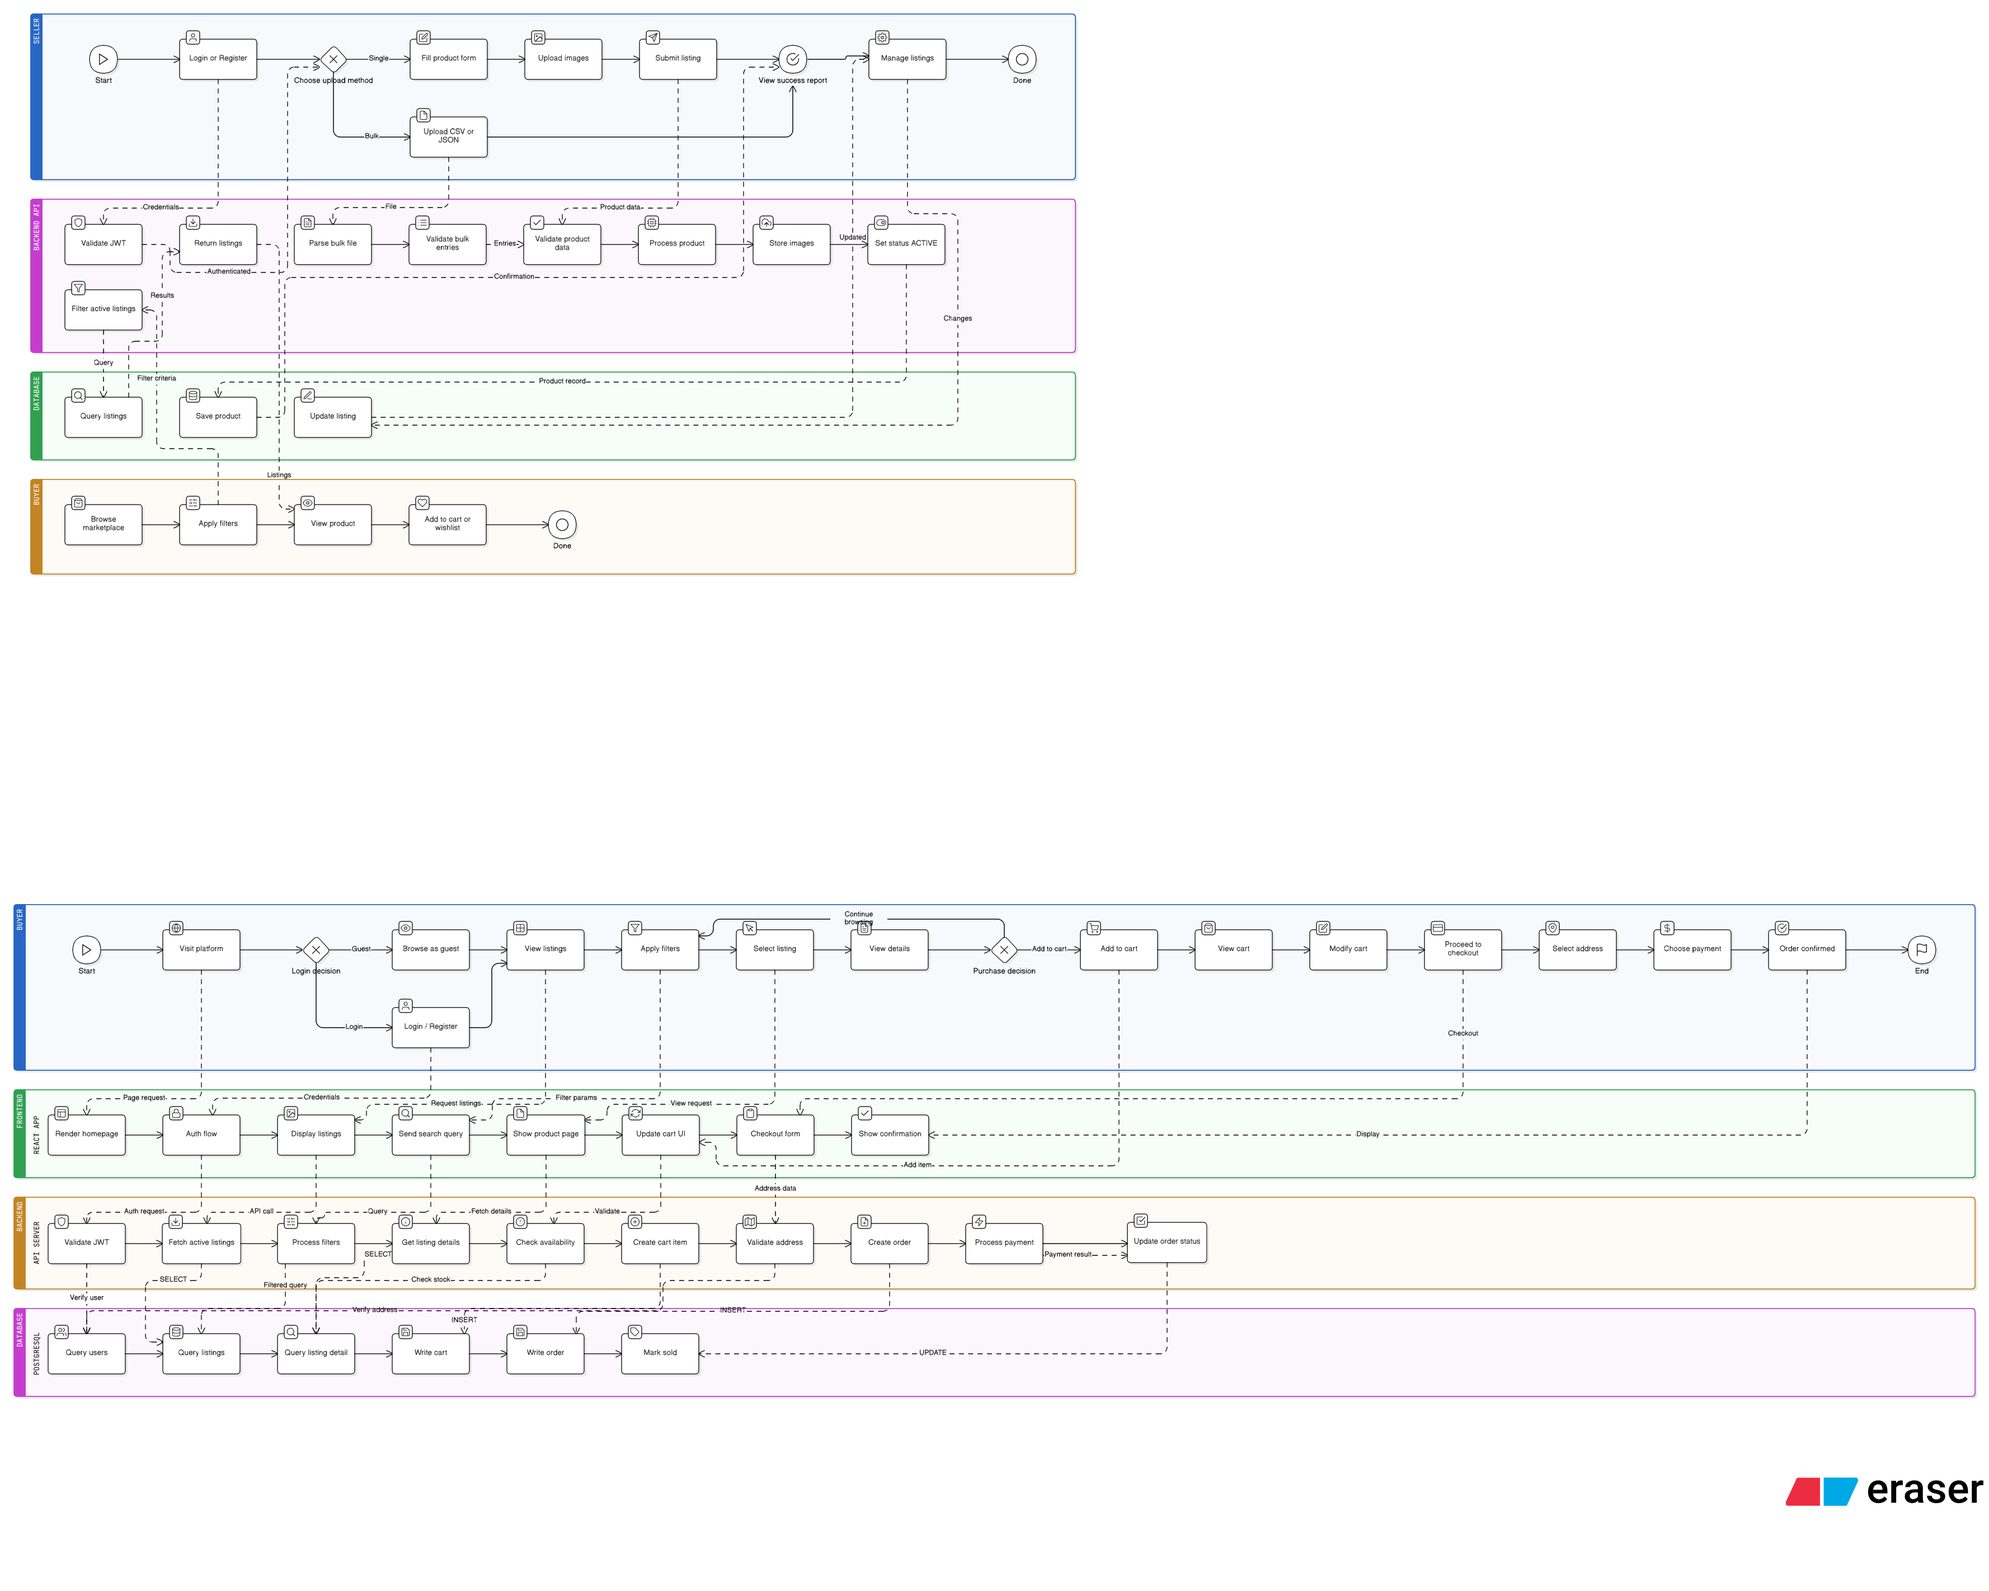
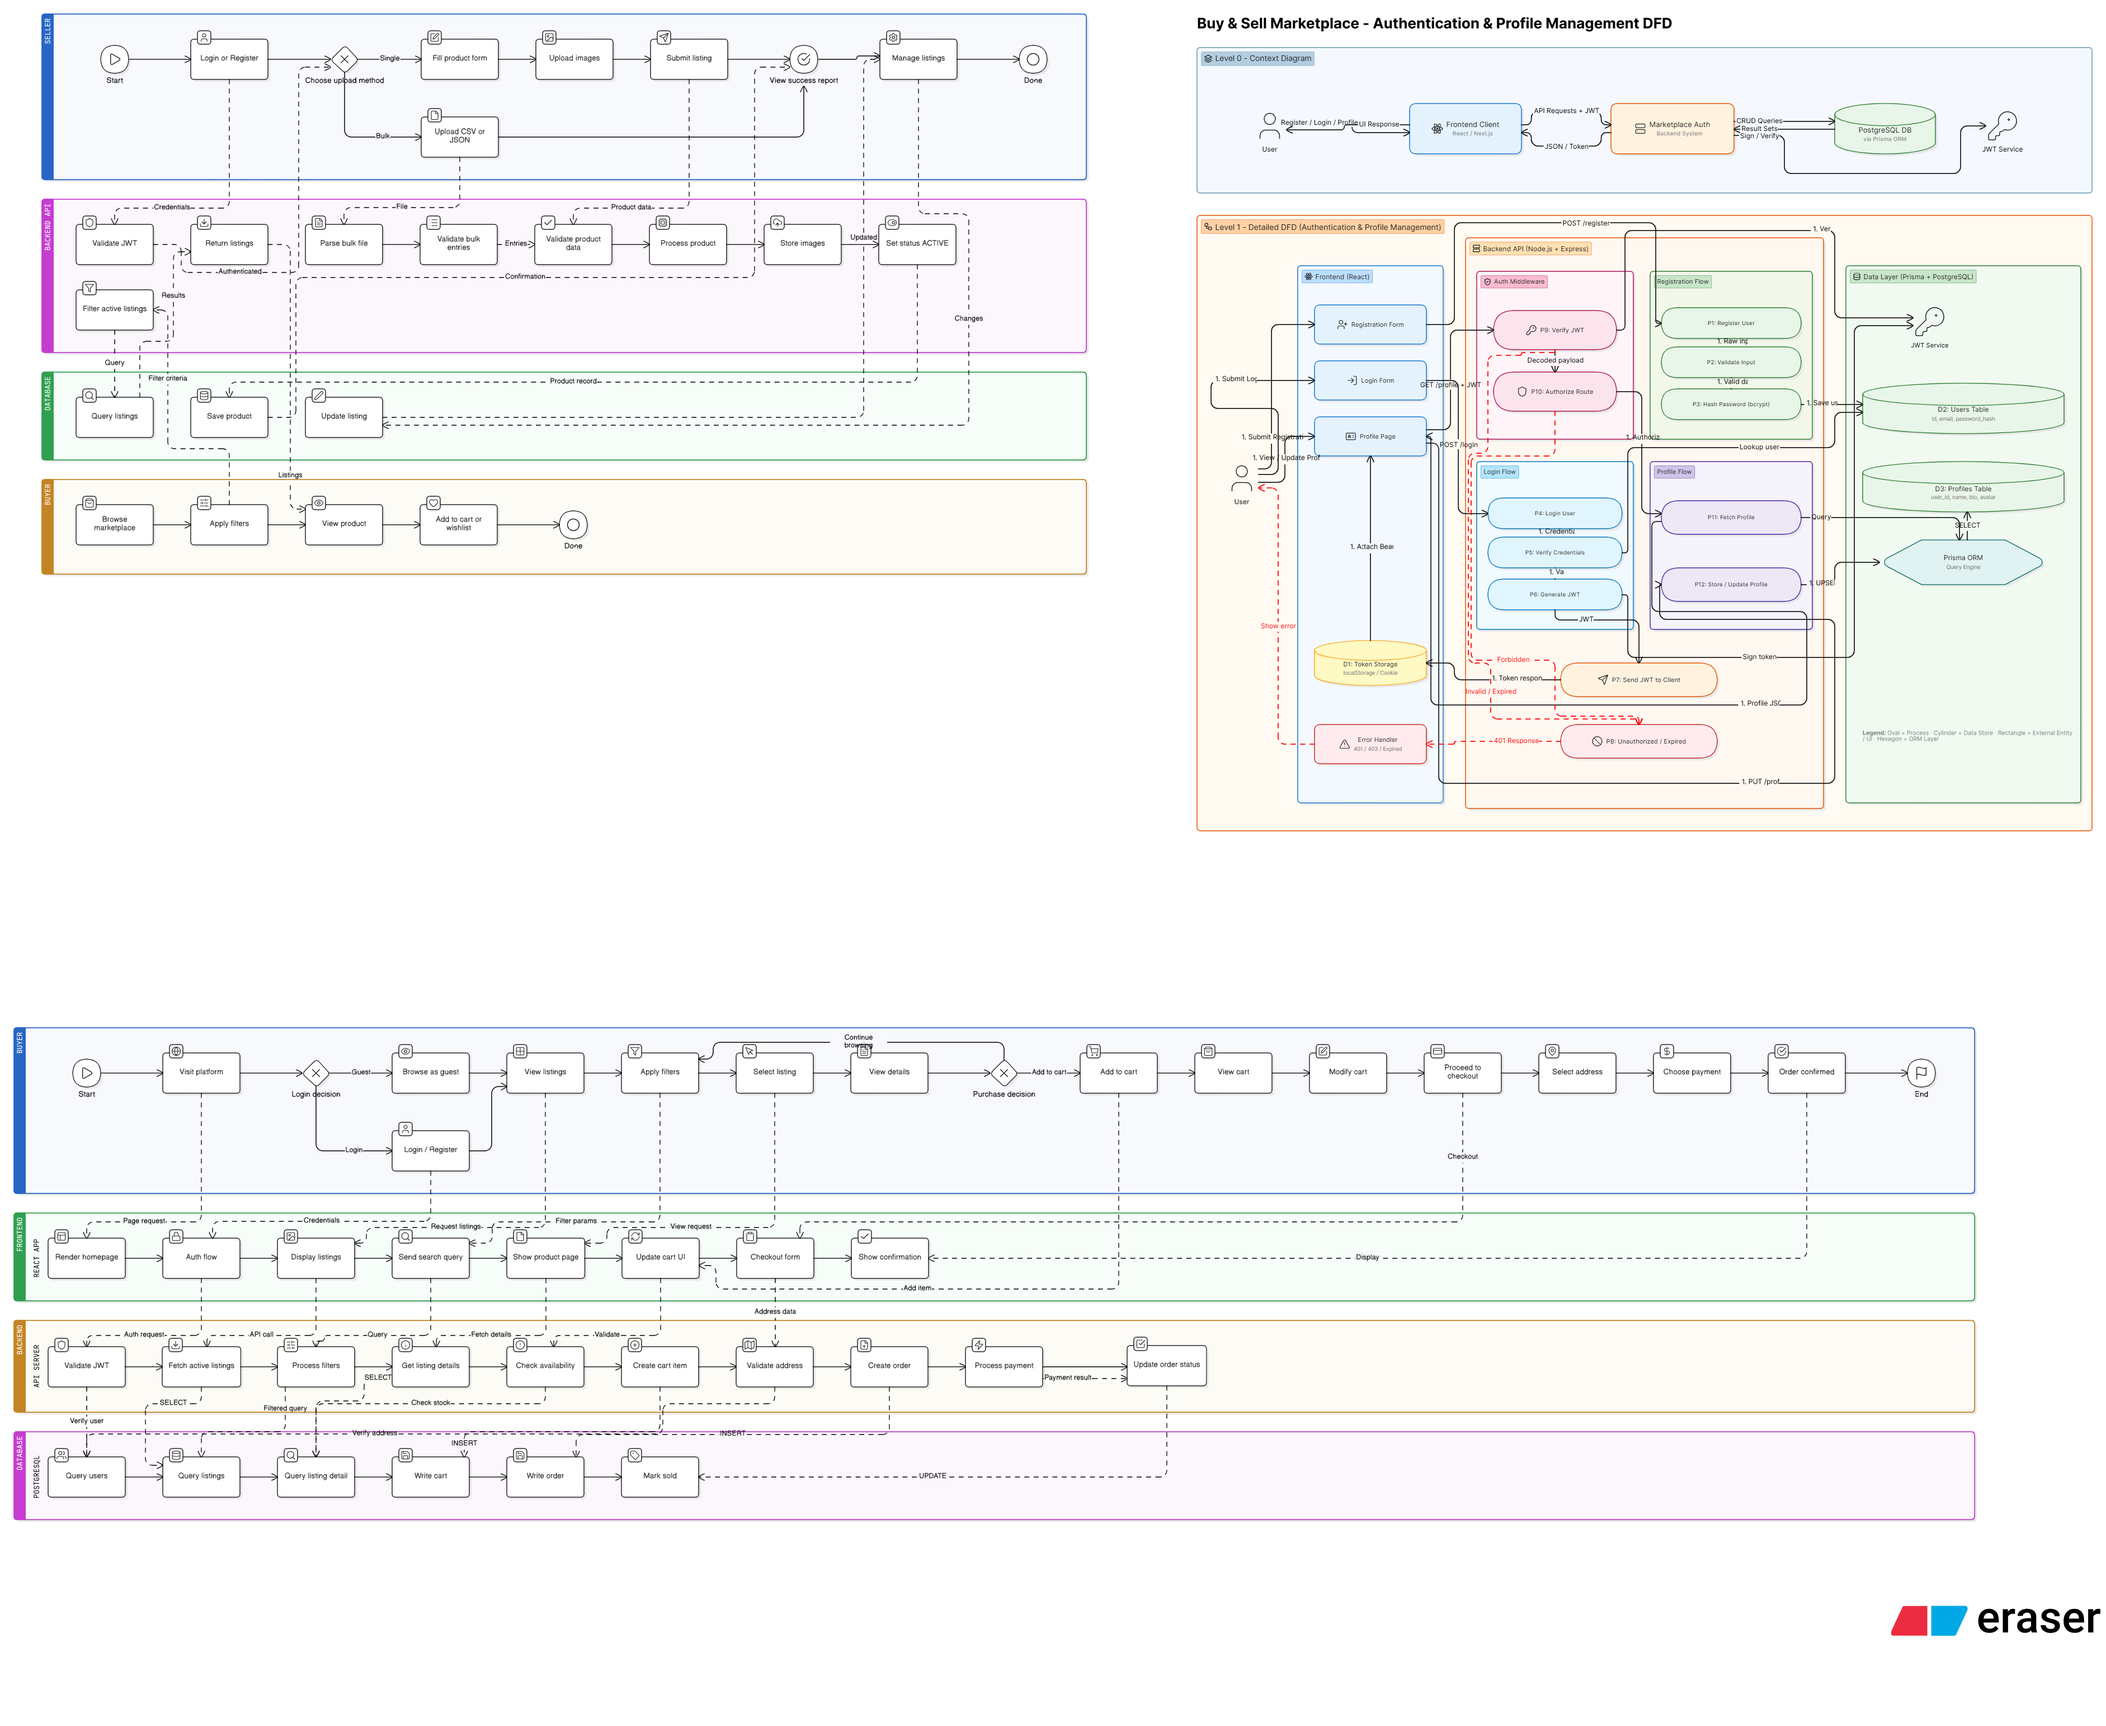
fix: correct token retrieval and formatting in apiFetch function

diff --git a/client/src/utils/api.js b/client/src/utils/api.js
@@ -1,17 +1,17 @@
 const API_BASE_URL = import.meta.env.VITE_API_URL || 'http://localhost:4000';
 
-export const apiFetch=async (endpoint,options={})=>{
-    const token =localStorage.getIntem("token");
-    const res=await fetch(`${API_BASE_URL}${endpoint}`,{
+export const apiFetch = async (endpoint, options = {}) => {
+    const token = localStorage.getItem("authToken");
+    const res = await fetch(`${API_BASE_URL}${endpoint}`, {
         ...options,
-        headers:{
-            "Content-Type":"application/json",
-            ...API_BASE_URL(token && {Authorization :`Bearer ${token}`}),
+        headers: {
+            "Content-Type": "application/json",
+            ...(token && { Authorization: `Bearer ${token}` }),
             ...options.headers,
         }
-    })
-    if(!res.ok){
+    });
+    if (!res.ok) {
         throw new Error("Request failed");
     }
     return res.json();
-}
+};
